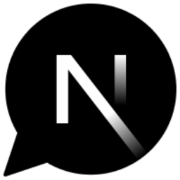
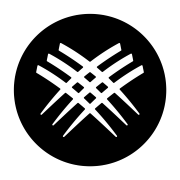
ui is ok

diff --git a/components/header.tsx b/components/header.tsx
@@ -5,10 +5,8 @@ import { cn } from '@/lib/utils'
 import { auth } from '@/auth'
 import { Button, buttonVariants } from '@/components/ui/button'
 import {
-  IconGitHub,
   IconNextChat,
-  IconSeparator,
-  IconVercel
+  IconSeparator
 } from '@/components/ui/icons'
 import { UserMenu } from '@/components/user-menu'
 import { SidebarMobile } from './sidebar-mobile'
@@ -29,17 +27,14 @@ async function UserOrLogin() {
         </>
       ) : (
         <Link href="/new" rel="nofollow">
-          <IconNextChat className="size-6 mr-2 dark:hidden" inverted />
-          <IconNextChat className="hidden size-6 mr-2 dark:block" />
         </Link>
       )}
       <div className="flex items-center">
-        <IconSeparator className="size-6 text-muted-foreground/50" />
         {session?.user ? (
           <UserMenu user={session.user} />
         ) : (
           <Button variant="link" asChild className="-ml-2">
-            <Link href="/login">Login</Link>
+            <Link href="/login">Log In / Sign Up</Link>
           </Button>
         )}
       </div>
@@ -56,24 +51,6 @@ export function Header() {
         </React.Suspense>
       </div>
       <div className="flex items-center justify-end space-x-2">
-        <a
-          target="_blank"
-          href="https://github.com/vercel/nextjs-ai-chatbot/"
-          rel="noopener noreferrer"
-          className={cn(buttonVariants({ variant: 'outline' }))}
-        >
-          <IconGitHub />
-          <span className="hidden ml-2 md:flex">GitHub</span>
-        </a>
-        <a
-          href="https://vercel.com/templates/Next.js/nextjs-ai-chatbot"
-          target="_blank"
-          className={cn(buttonVariants())}
-        >
-          <IconVercel className="mr-2" />
-          <span className="hidden sm:block">Deploy to Vercel</span>
-          <span className="sm:hidden">Deploy</span>
-        </a>
       </div>
     </header>
   )

diff --git a/components/empty-screen.tsx b/components/empty-screen.tsx
@@ -1,36 +1,21 @@
 import { UseChatHelpers } from 'ai/react'
 
-import { Button } from '@/components/ui/button'
 import { ExternalLink } from '@/components/external-link'
-import { IconArrowRight } from '@/components/ui/icons'
 
 export function EmptyScreen() {
   return (
     <div className="mx-auto max-w-2xl px-4">
       <div className="flex flex-col gap-2 rounded-lg border bg-background p-8">
         <h1 className="text-lg font-semibold">
-          Welcome to Next.js AI Chatbot!
+          Welcome to FTC Chatbot!
         </h1>
         <p className="leading-normal text-muted-foreground">
-          This is an open source AI chatbot app template built with{' '}
-          <ExternalLink href="https://nextjs.org">Next.js</ExternalLink>, the{' '}
-          <ExternalLink href="https://sdk.vercel.ai">
-            Vercel AI SDK
-          </ExternalLink>
-          , and{' '}
-          <ExternalLink href="https://vercel.com/storage/kv">
-            Vercel KV
-          </ExternalLink>
-          .
-        </p>
-        <p className="leading-normal text-muted-foreground">
-          It uses{' '}
-          <ExternalLink href="https://vercel.com/blog/ai-sdk-3-generative-ui">
-            React Server Components
-          </ExternalLink>{' '}
-          to combine text with generative UI as output of the LLM. The UI state
-          is synced through the SDK so the model is aware of your interactions
-          as they happen.
+          This chatbot has been developed by {' '}
+          <ExternalLink href="https://frc9483.com">
+            FRC Team 9483
+          </ExternalLink>{' '} with the aim of assisting
+          FTC teams. It is designed to provide guidance and support to help teams
+          succeed in their competitions and projects.
         </p>
       </div>
     </div>

diff --git a/components/chat-panel.tsx b/components/chat-panel.tsx
@@ -36,24 +36,24 @@ export function ChatPanel({
 
   const exampleMessages = [
     {
-      heading: 'What are the',
-      subheading: 'trending memecoins today?',
-      message: `What are the trending memecoins today?`
+      heading: 'How do you use',
+      subheading: 'Vuforia for image recognition?',
+      message: 'How do you use Vuforia for image recognition in FTC?'
     },
     {
-      heading: 'What is the price of',
-      subheading: '$DOGE right now?',
-      message: 'What is the price of $DOGE right now?'
+      heading: 'What are some common',
+      subheading: 'issues teams face during competitions?',
+      message: 'What are the common issues teams face during competitions, and how do you fix them?'
     },
     {
-      heading: 'I would like to buy',
-      subheading: '42 $DOGE',
-      message: `I would like to buy 42 $DOGE`
+      heading: 'How do we improve',
+      subheading: 'our scoring in autonomous?',
+      message: 'How do we improve our scoring in autonomous?'
     },
     {
-      heading: 'What are some',
-      subheading: `recent events about $DOGE?`,
-      message: `What are some recent events about $DOGE?`
+      heading: 'What are the key',
+      subheading: 'awards in FTC competitions?',
+      message: 'What are the key awards in FTC competitions?'
     }
   ]
 

diff --git a/components/prompt-form.tsx b/components/prompt-form.tsx
@@ -66,23 +66,7 @@ export function PromptForm({
         setMessages(currentMessages => [...currentMessages, responseMessage])
       }}
     >
-      <div className="relative flex max-h-60 w-full grow flex-col overflow-hidden bg-background px-8 sm:rounded-md sm:border sm:px-12">
-        <Tooltip>
-          <TooltipTrigger asChild>
-            <Button
-              variant="outline"
-              size="icon"
-              className="absolute left-0 top-[14px] size-8 rounded-full bg-background p-0 sm:left-4"
-              onClick={() => {
-                router.push('/new')
-              }}
-            >
-              <IconPlus />
-              <span className="sr-only">New Chat</span>
-            </Button>
-          </TooltipTrigger>
-          <TooltipContent>New Chat</TooltipContent>
-        </Tooltip>
+      <div className="relative flex max-h-60 w-full grow flex-col overflow-hidden bg-background sm:rounded-md sm:border">
         <Textarea
           ref={inputRef}
           tabIndex={0}

diff --git a/components/footer.tsx b/components/footer.tsx
@@ -1,7 +1,6 @@
 import React from 'react'
 
 import { cn } from '@/lib/utils'
-import { ExternalLink } from '@/components/external-link'
 
 export function FooterText({ className, ...props }: React.ComponentProps<'p'>) {
   return (
@@ -12,12 +11,7 @@ export function FooterText({ className, ...props }: React.ComponentProps<'p'>) {
       )}
       {...props}
     >
-      Open source AI chatbot built with{' '}
-      <ExternalLink href="https://nextjs.org">Next.js</ExternalLink> and{' '}
-      <ExternalLink href="https://github.com/vercel/ai">
-        Vercel AI SDK
-      </ExternalLink>
-      .
+      Developed by FRC Team 9483
     </p>
   )
 }

diff --git a/app/layout.tsx b/app/layout.tsx
@@ -13,8 +13,8 @@ export const metadata = {
     ? new URL(`https://${process.env.VERCEL_URL}`)
     : undefined,
   title: {
-    default: 'Next.js AI Chatbot',
-    template: `%s - Next.js AI Chatbot`
+    default: 'FTC Chatbot',
+    template: `%s - FTC Chatbot`
   },
   description: 'An AI-powered chatbot template built with Next.js and Vercel.',
   icons: {

diff --git a/app/(chat)/page.tsx b/app/(chat)/page.tsx
@@ -6,7 +6,7 @@ import { Session } from '@/lib/types'
 import { getMissingKeys } from '@/app/actions'
 
 export const metadata = {
-  title: 'Next.js AI Chatbot'
+  title: 'New Chat'
 }
 
 export default async function IndexPage() {
